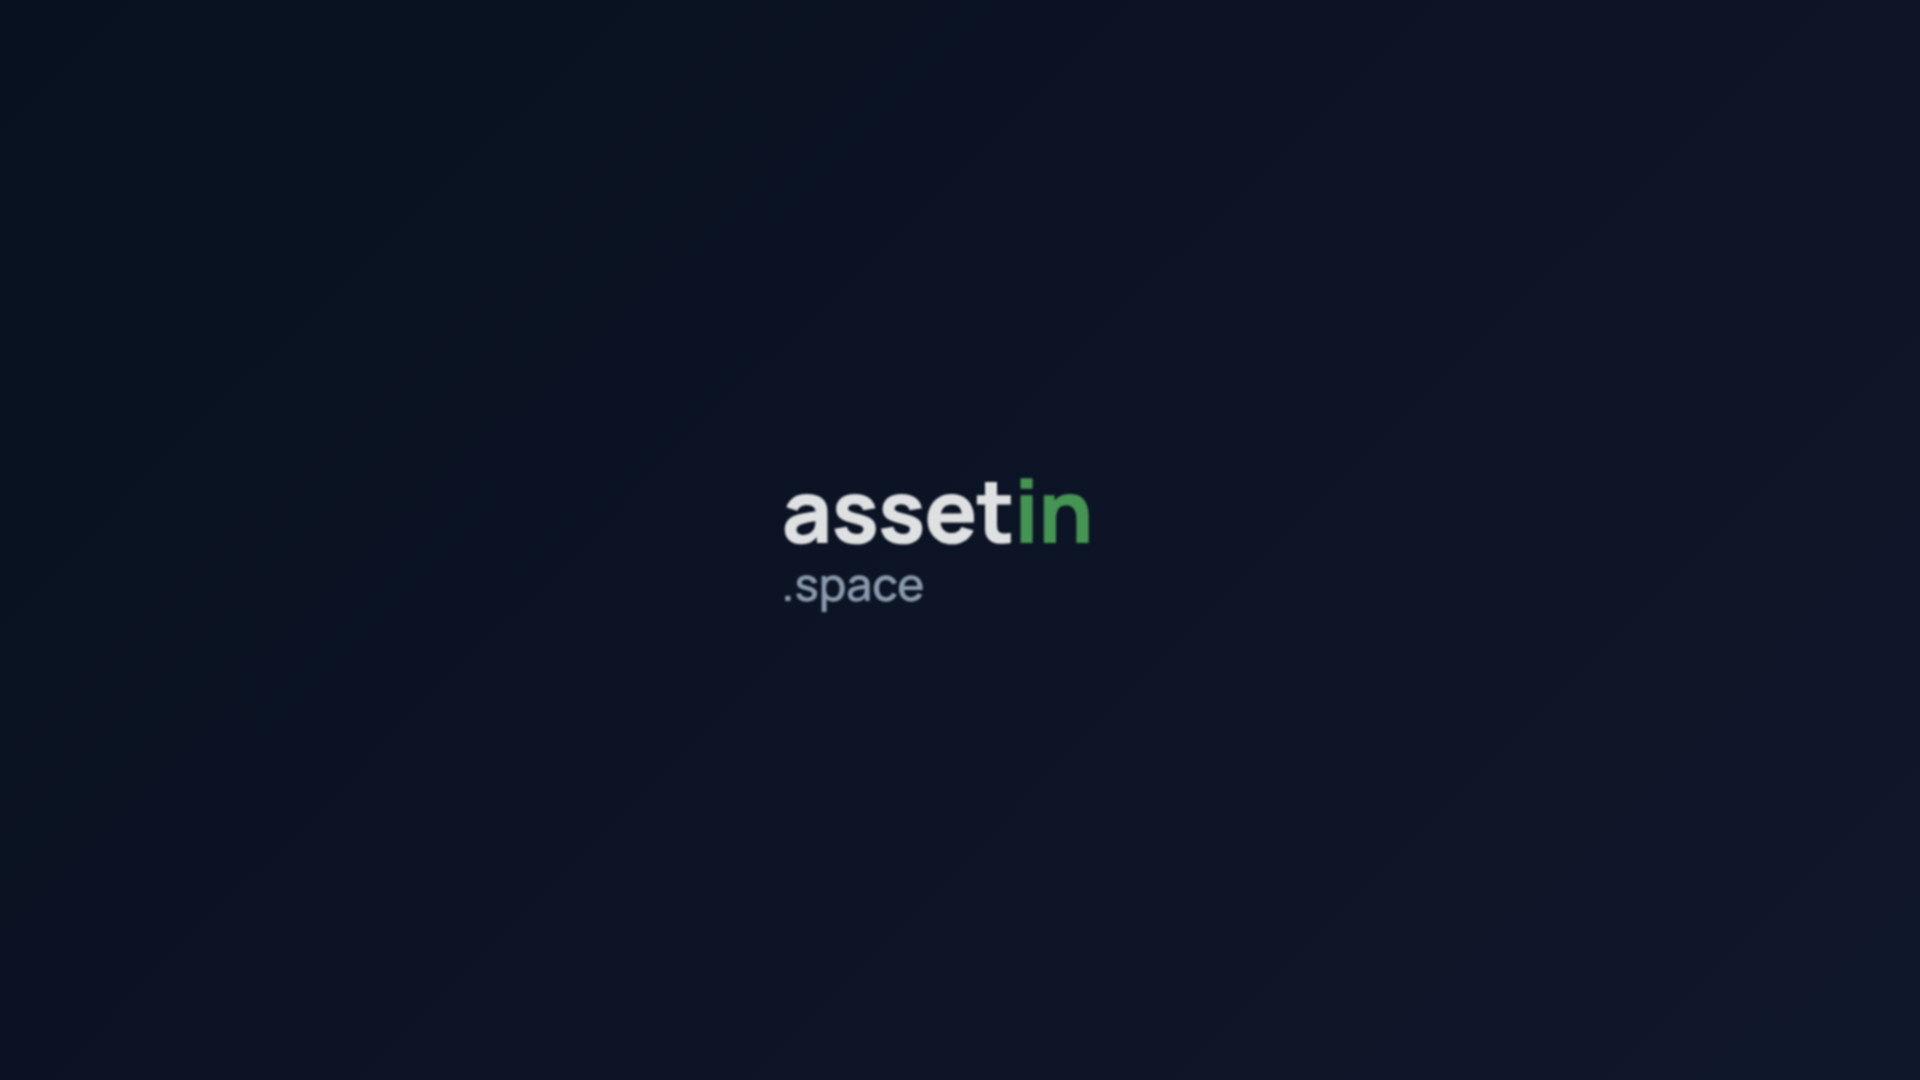
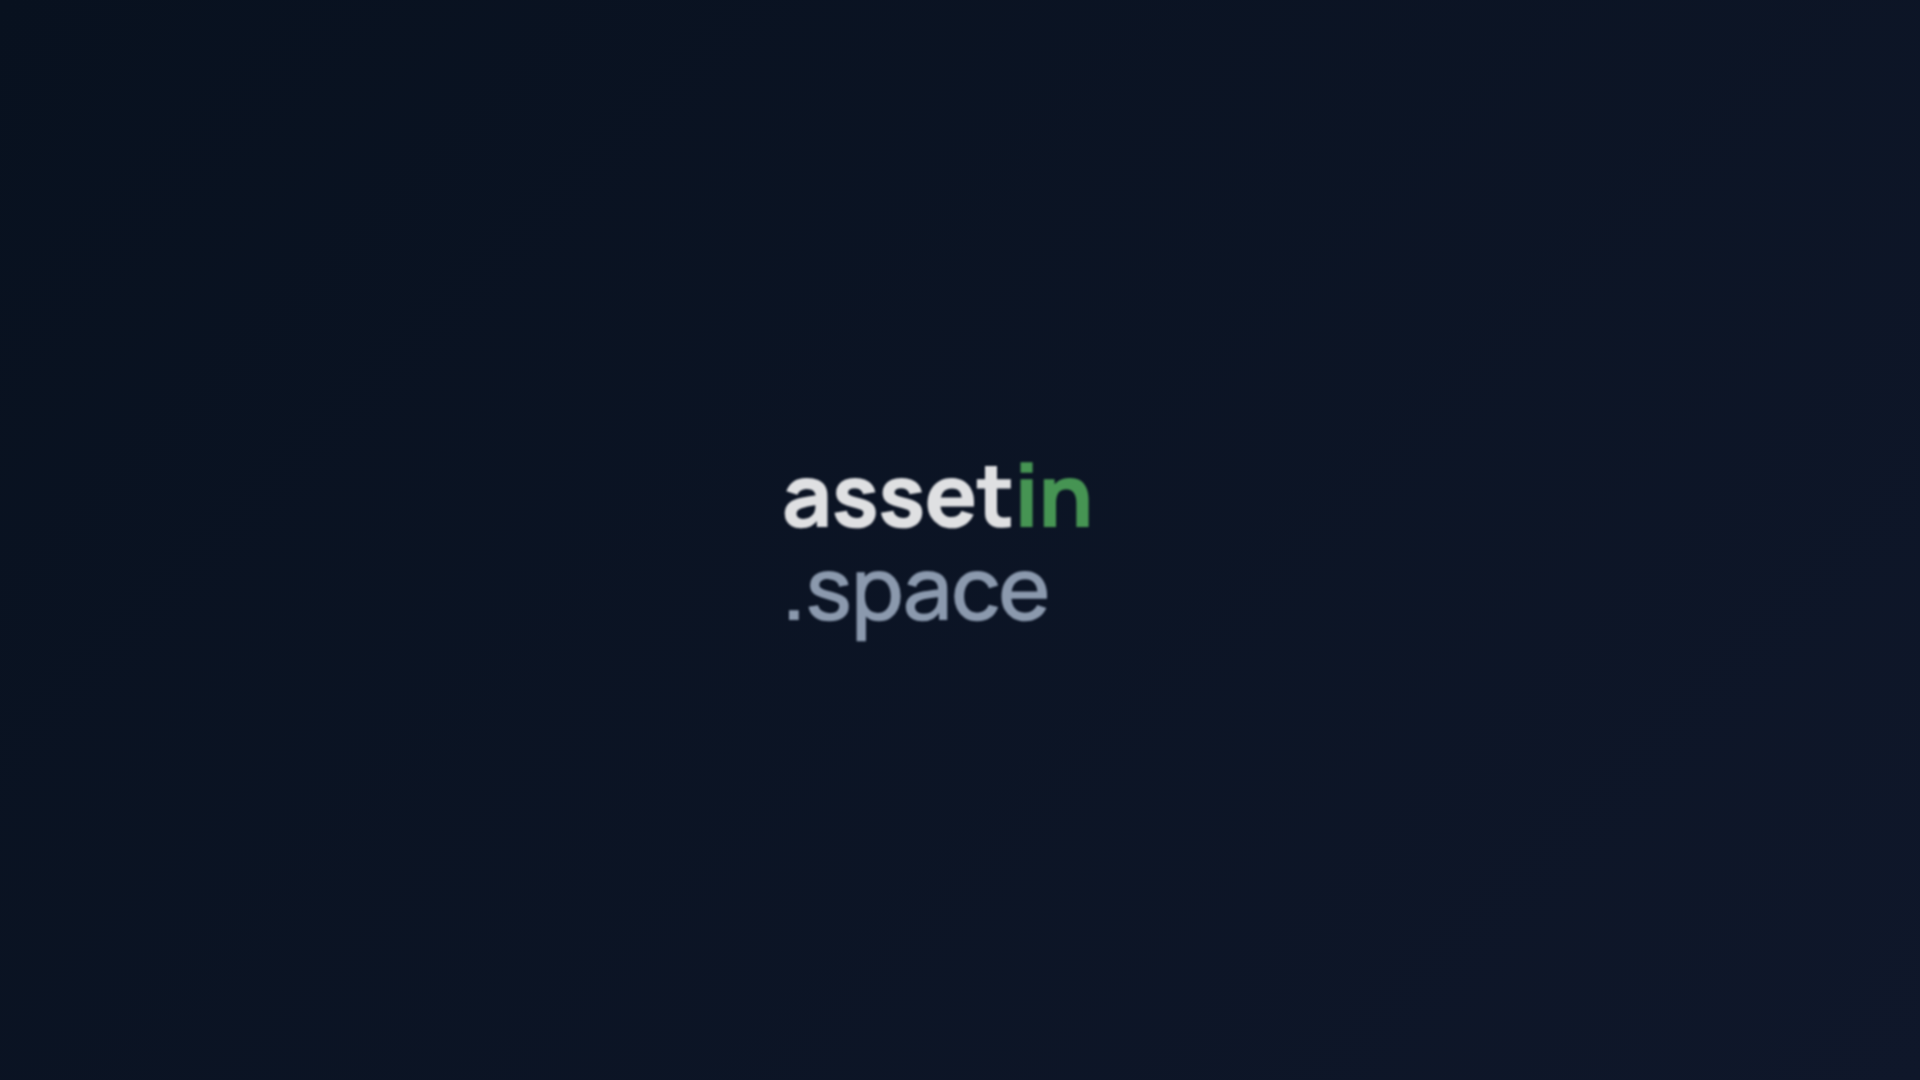
C1 Intro: .space v rovnakej veľkosti a type písma ako assetin, lockup na jednej osi
Claude-Session: https://claude.ai/code/session_0174g5XfE49UzAEjnWwaQFuK

Changed region(s): [[0.4062, 0.4278, 0.5625, 0.5806]]

diff --git a/video/src/scenes/C1_Intro.tsx b/video/src/scenes/C1_Intro.tsx
@@ -39,7 +39,7 @@ export const C1_Intro: React.FC = () => {
     <Scene mode="dark">
       <div style={{ position: 'absolute', inset: 0, transform: `scale(${scale})`, transformOrigin: '50% 50%', opacity: 1 - zoom * 0.9, filter: `blur(${zoom * 6}px)` }}>
         {/* stohovany logotyp */}
-        <div style={{ position: 'absolute', left: stackLeft, top: top + 4, opacity: stackIn, transform: `translateY(${(1 - stackIn) * 24}px)` }}>
+        <div style={{ position: 'absolute', left: stackLeft, top: top + (LOCKUP.sepH - 172) / 2, opacity: stackIn, transform: `translateY(${(1 - stackIn) * 24}px)` }}>
           <BrandStack domain={domain} />
         </div>
         {/* oddelovac */}
@@ -47,8 +47,8 @@ export const C1_Intro: React.FC = () => {
           <BrandSep t={sep} />
         </div>
         {/* modul Archives: vychadza spoza oddelovaca doprava (clip) */}
-        <div style={{ position: 'absolute', left: modLeft, top: top + 2, width: LOCKUP.modW + 40, height: LOCKUP.sepH, overflow: 'hidden' }}>
-          <BrandMod style={{ position: 'absolute', left: 0, top: 2, transform: `translateX(${(mod - 1) * (LOCKUP.modW + 40)}px)`, opacity: Math.min(1, mod * 2) }} />
+        <div style={{ position: 'absolute', left: modLeft, top, width: LOCKUP.modW + 40, height: LOCKUP.sepH, overflow: 'hidden' }}>
+          <BrandMod style={{ position: 'absolute', left: 0, top: (LOCKUP.sepH - 140) / 2, transform: `translateX(${(mod - 1) * (LOCKUP.modW + 40)}px)`, opacity: Math.min(1, mod * 2) }} />
         </div>
       </div>
       {/* prechod do navy na konci (prvy frame C2 je navy) */}

diff --git a/video/src/components/Brand.tsx b/video/src/components/Brand.tsx
@@ -12,7 +12,7 @@ export const LOCKUP = {
   stackW: 340, // sirka "assetin" pri 84 px
   gap: 28,
   sepW: 4,
-  sepH: 150,
+  sepH: 190,
   modW: 560, // sirka "Archives" pri 140 px
 };
 export const LOCKUP_W = LOCKUP.stackW + LOCKUP.gap + LOCKUP.sepW + LOCKUP.gap + LOCKUP.modW;
@@ -22,7 +22,8 @@ export const BrandStack: React.FC<{ domain?: number; style?: React.CSSProperties
     <div style={{ fontFamily: FONT.display, fontWeight: 800, fontSize: 84, lineHeight: 1, color: '#fff', letterSpacing: '-0.02em', whiteSpace: 'nowrap' }}>
       asset<span style={{ color: BRAND[400] }}>in</span>
     </div>
-    <div style={{ fontFamily: FONT.display, fontWeight: 500, fontSize: 44, lineHeight: 1, color: NAVY[300], letterSpacing: '-0.01em', marginTop: 6, whiteSpace: 'nowrap', opacity: Math.min(1, domain * 1.5), transform: `translateY(${(1 - domain) * -18}px)` }}>
+    {/* .space: rovnaky typ aj velkost pisma ako assetin, len tenkie a sive */}
+    <div style={{ fontFamily: FONT.display, fontWeight: 500, fontSize: 84, lineHeight: 1, color: NAVY[300], letterSpacing: '-0.02em', marginTop: 4, whiteSpace: 'nowrap', opacity: Math.min(1, domain * 1.5), transform: `translateY(${(1 - domain) * -18}px)` }}>
       .space
     </div>
   </div>

diff --git a/video/FEEDBACK.md b/video/FEEDBACK.md
@@ -73,3 +73,9 @@
 | Klip | Pripomienka (skrátene) | Riešenie |
 |---|---|---|
 | C1 Intro | Logo nahradiť lockupom z assetin-design-kitu (`.brand-lockup.rule.on-navy`: stohovaný `assetin` / `.space`, oddeľovač, modul `Archives`) podľa screenshotu. | Nový komponent `components/Brand.tsx` (BrandStack, BrandSep, BrandMod) a nové intro: logotyp vypláva, `.space` sa vysunie, oddeľovač sa nakreslí, `Archives` vyjde spoza neho; na konci sa zasunie späť, oddeľovač sa stiahne, logotyp sa priblíži a vybledne do navy. Domček v intre už nie je (C9 Outro ho zatiaľ má). |
+
+## Kolo 12 (21. 9. 2026)
+
+| Klip | Pripomienka (skrátene) | Riešenie |
+|---|---|---|
+| C1 Intro | `.space` veľkostne nedrží s `assetin`; rovnaký typ aj veľkosť písma, zarovnané na jednu os. | `.space` je Manrope 84 px (rovnako ako `assetin`), váha 500, sivé; stohovaný logotyp, oddeľovač (190 px) aj `Archives` sú vertikálne centrované na jednej osi. |

diff --git a/video/STORYBOARD.md b/video/STORYBOARD.md
@@ -1,4 +1,4 @@
-# Storyboard – Assetin Archives (kolo 11)
+# Storyboard – Assetin Archives (kolo 12)
 
 Stav: ☐ still na schválenie · ☑ still schválený · ▶ animácia hotová · 🎞 finálne MP4
 
@@ -45,7 +45,7 @@ S04-Pokusy (Excel a skener), S10-Nasadenie (U nás / U vás) vo Folder „Option
 - kolo 1: „vyzerá ako prezentácia, priveľa textu, nie je miesto na footage“ → kolo 2.
 - kolo 2: „mierka ikon nesedí, chýba kancelária, texty sa prekrývajú s ikonami, simulácia UI je zbytočná (príde footage), zelené QR, presahy medzi scénami“ → kolo 3 (tento stav).
 - kolo 3 + oprava QR/kancelárie: schválené → Fáza 2 (finálne MP4).
-- kolo 4 až 11 (pripomienky z review stránky, viď FEEDBACK.md): zapracované; nové MP4 na review stránke.
+- kolo 4 až 12 (pripomienky z review stránky, viď FEEDBACK.md): zapracované; nové MP4 na review stránke.
 
 ## Review stránka
 
